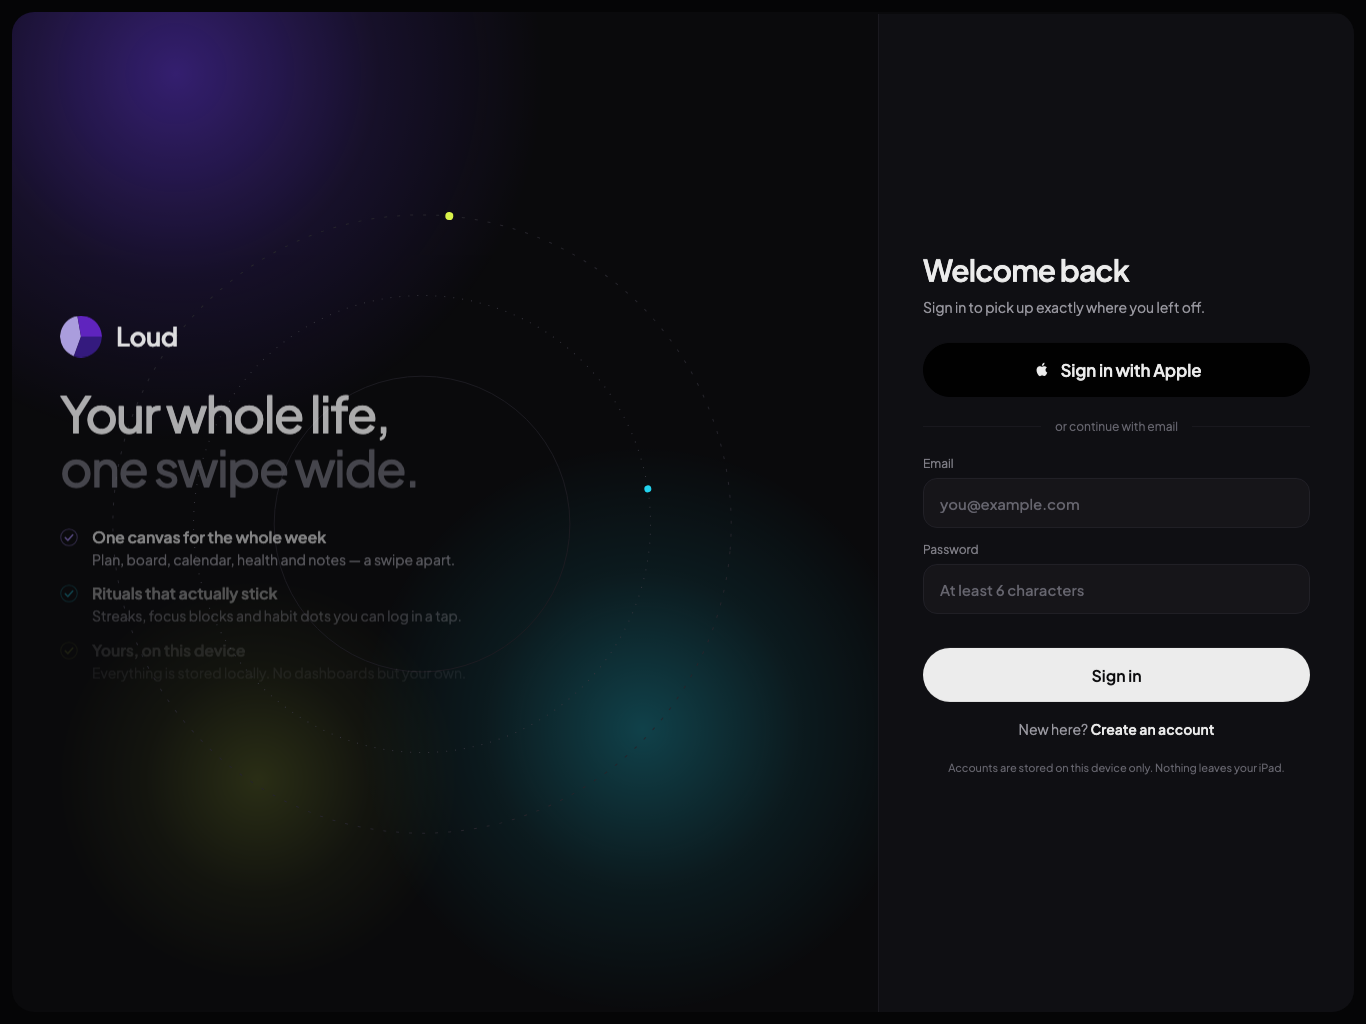
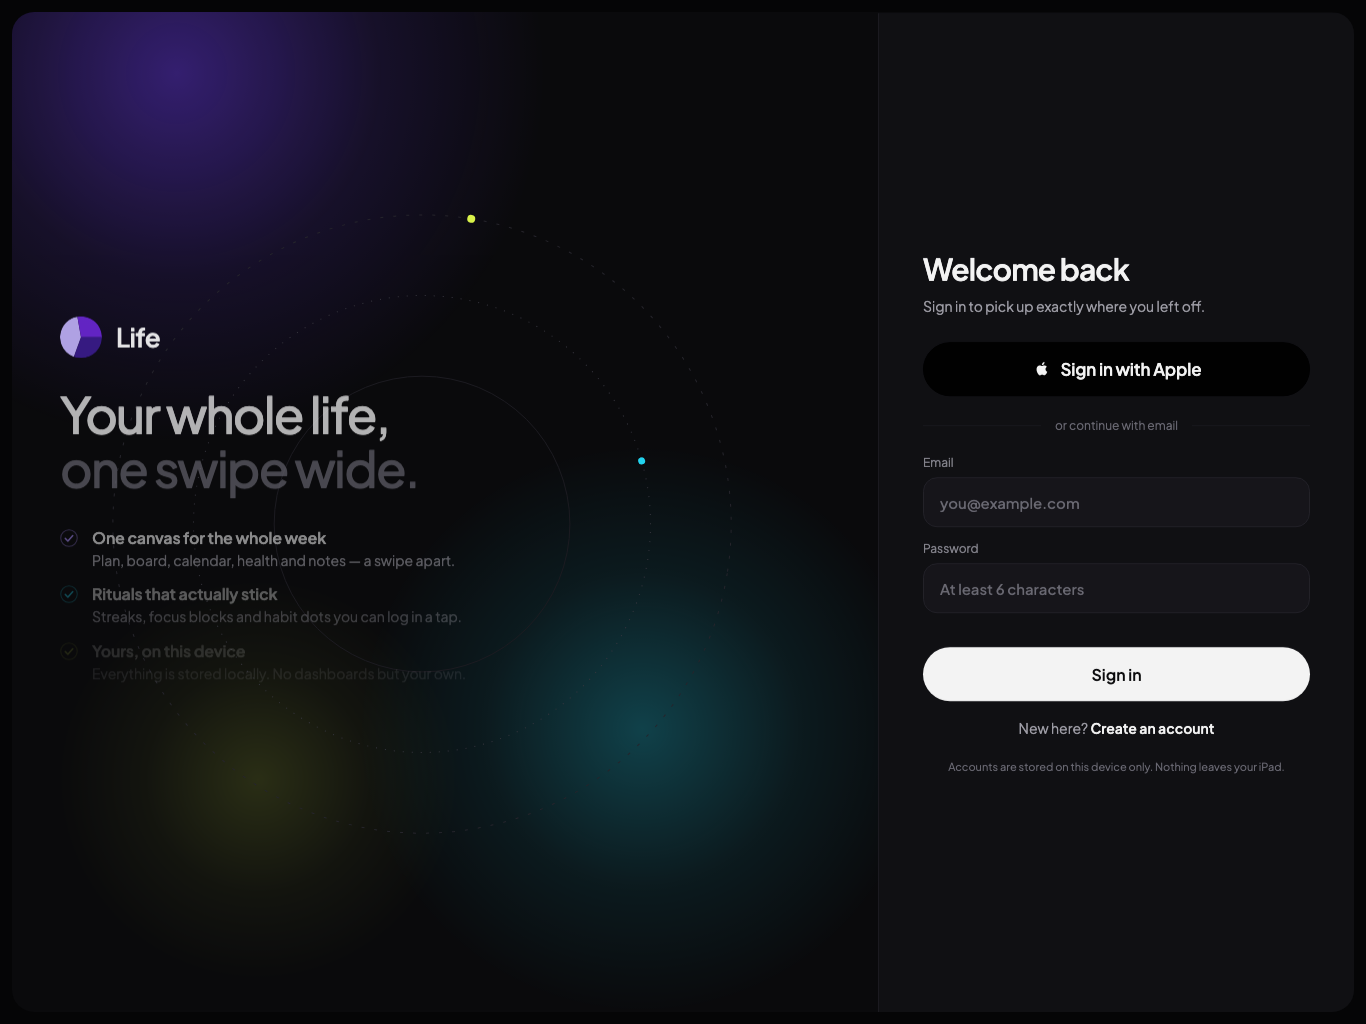
refactor: rename the product from Loud to Life

diff --git a/src/auth/AuthScreen.tsx b/src/auth/AuthScreen.tsx
@@ -143,7 +143,7 @@ export function AuthScreen() {
               <ConicDisc size={42} from={200} stops={BRAND_STOPS} />
             </View>
             <Txt size={26} weight="semibold" tracking={-0.02}>
-              Loud
+              Life
             </Txt>
           </View>
         </Animated.View>

diff --git a/src/components/Header.tsx b/src/components/Header.tsx
@@ -49,7 +49,7 @@ export const Header = React.memo(function Header({
           <ConicDisc size={38} from={200} stops={BRAND_STOPS} />
         </View>
         <Txt size={typeScale.brand} weight="semibold" tracking={tracking.heading}>
-          Loud
+          Life
         </Txt>
       </View>
 

diff --git a/README.md b/README.md
@@ -1,4 +1,4 @@
-# Life — the Loud dashboard
+# Life
 
 An iPad-first life dashboard built with Expo (SDK 57) and React Native, replicated end to
 end from the `Life Dashboard Dark.dc.html` Claude Design file: five full-bleed pages you
